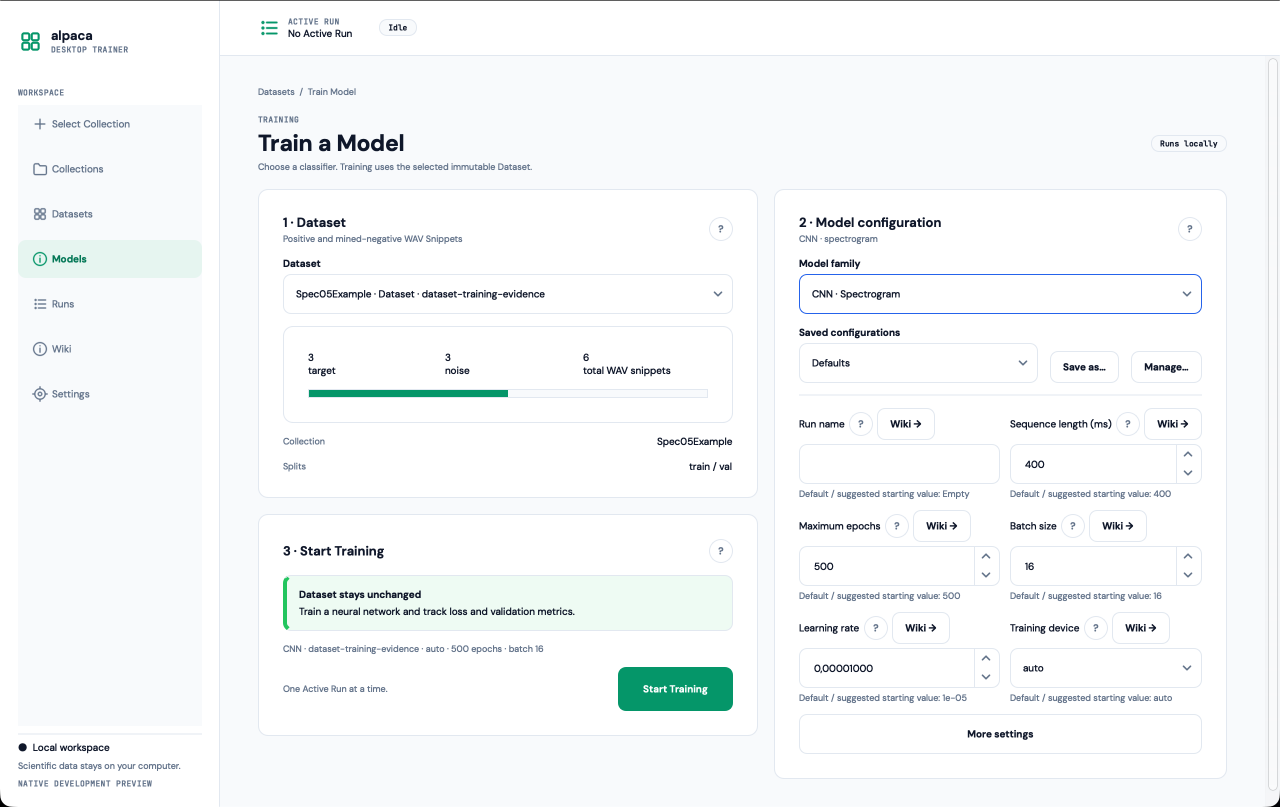
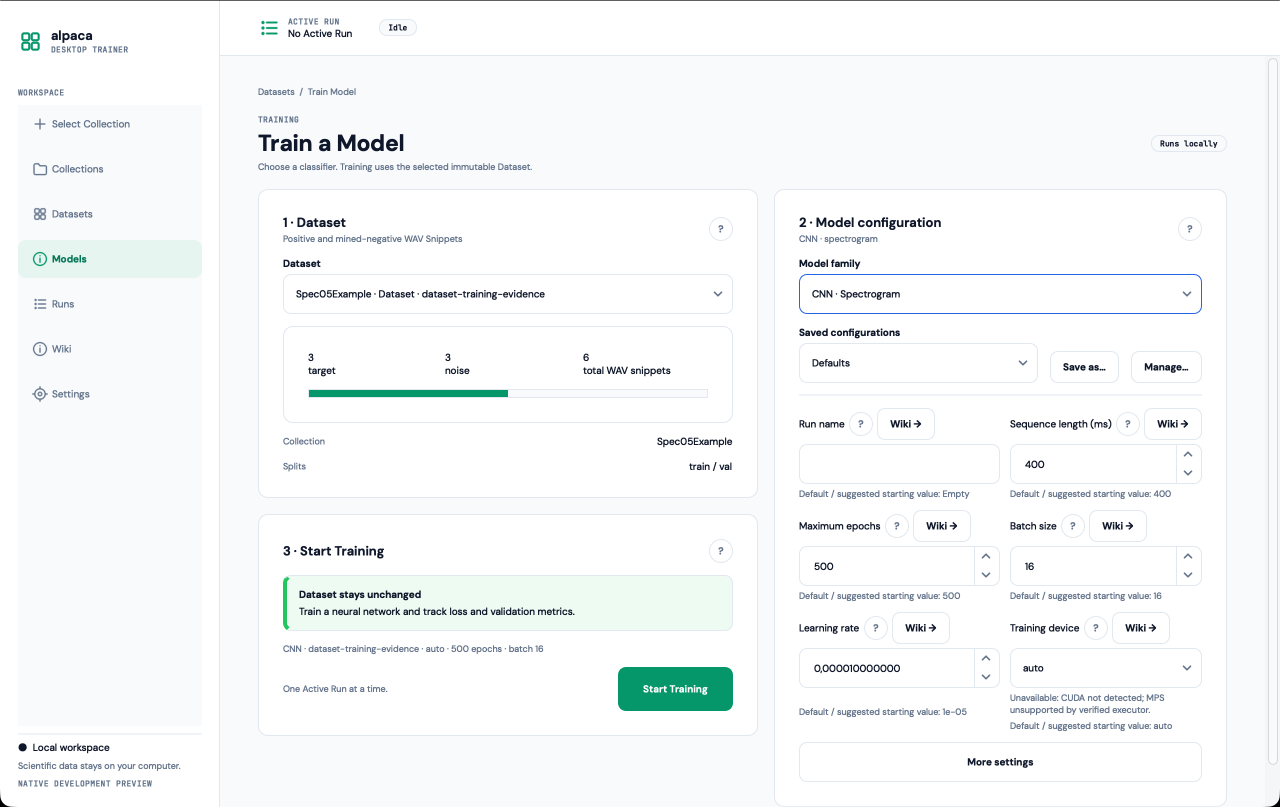
feat(spec05a): close configuration acceptance gaps

Changed region(s): [[0.75, 0.8364, 0.9062, 0.9603], [0.625, 0.8055, 0.75, 0.8984]]

diff --git a/src/alpaca_desktop/gui/training.py b/src/alpaca_desktop/gui/training.py
@@ -84,6 +84,13 @@ def _display_value(value: object) -> str:
     return str(value)
 
 
+_FLOAT_DECIMALS = {
+    "training.learning_rate": 12,
+    "training.lr_decay_factor": 12,
+    "feature_config.min_duration_s": 9,
+}
+
+
 class TrainingWikiPage(QScrollArea):
     def __init__(self, back: Callable[[], None]):
         super().__init__()
@@ -694,7 +701,7 @@ class TrainingPage(QScrollArea):
                 kind="decimal",
                 minimum=-1_000_000_000,
                 maximum=1_000_000_000,
-                decimals=8,
+                decimals=_FLOAT_DECIMALS.get(field.key, 8),
                 step=0.01,
                 value=float(value),
             )
@@ -706,20 +713,19 @@ class TrainingPage(QScrollArea):
                 control.addItem(_display_value(choice), choice)
             selected = control.control.findData(value)
             control.setCurrentIndex(max(0, selected))
-            if field.key == "device":
-                for index in range(control.count()):
-                    choice = control.control.itemData(index)
-                    enabled = not (
-                        (choice == "cuda" and not self.capabilities.cuda)
-                        or (choice == "mps" and not self.capabilities.mps)
-                    )
+            unavailable: list[tuple[object, str]] = []
+            for index in range(control.count()):
+                choice = control.control.itemData(index)
+                reason = self._unavailable_choice_reason(field.key, choice)
+                if reason:
+                    unavailable.append((choice, reason))
                     item = control.model().item(index)
                     if item is not None:
-                        item.setEnabled(enabled)
-            if field.key == "augmentation.noise_source":
-                item = control.model().item(control.control.findData("collection-selected"))
-                if item is not None:
-                    item.setEnabled(False)
+                        item.setEnabled(False)
+                        item.setToolTip(reason)
+            if unavailable:
+                description = self._unavailable_field_description(field.key, unavailable)
+                control.setDescriptionText(description)
             control.currentIndexChanged.connect(
                 lambda _index, key=field.key: self._control_changed(key)
             )
@@ -730,6 +736,29 @@ class TrainingPage(QScrollArea):
             control.toggled.connect(lambda _checked, key=field.key: self._control_changed(key))
             return control
         raise ValueError(f"Unsupported training field kind: {field.kind}")
+
+    def _unavailable_choice_reason(self, key: str, choice: object) -> str:
+        if key == "device" and choice == "cuda" and not self.capabilities.cuda:
+            return "CUDA is unavailable because it was not detected in this runtime."
+        if key == "device" and choice == "mps" and not self.capabilities.mps:
+            return "MPS is unavailable in the verified training executor."
+        if key == "augmentation.noise_source" and choice == "collection-selected":
+            return "Collection-selected noise is unavailable until executor support is verified."
+        return ""
+
+    @staticmethod
+    def _unavailable_field_description(key: str, unavailable: list[tuple[object, str]]) -> str:
+        choices = {choice for choice, _reason in unavailable}
+        if key == "device":
+            parts = []
+            if "cuda" in choices:
+                parts.append("CUDA not detected")
+            if "mps" in choices:
+                parts.append("MPS unsupported by verified executor")
+            return "Unavailable: " + "; ".join(parts) + "."
+        if key == "augmentation.noise_source":
+            return "Unavailable: collection-selected noise lacks verified executor support."
+        return "Unavailable: " + "; ".join(reason for _choice, reason in unavailable)
 
     def _control_value(self, key: str) -> object:
         field = next(field for field in fields_for_family(self.family) if field.key == key)

diff --git a/tests/integration/test_training_ui.py b/tests/integration/test_training_ui.py
@@ -144,6 +144,30 @@ def test_native_validation_preserves_values_blocks_launch_and_resets(
     page.open_detail_section("Spectrogram")
     assert isinstance(page.field_controls["spectrogram.n_fft"], NumberInput)
 
+    page.set_field_value("training.learning_rate", 1e-10)
+    assert page.field_controls["training.learning_rate"].value() == pytest.approx(1e-10)
+    assert page.field_value("training.learning_rate") == pytest.approx(1e-10)
+
+    device = page.field_controls["device"]
+    mps_index = device.control.findData("mps")
+    mps_item = device.model().item(mps_index)
+    assert not mps_item.isEnabled()
+    assert "MPS is unavailable in the verified training executor" in mps_item.toolTip()
+    assert "MPS unsupported by verified executor" in device.control.accessibleDescription()
+    assert "MPS unsupported by verified executor" in device.descriptionText()
+
+    noise_source = page.field_controls["augmentation.noise_source"]
+    collection_noise_index = noise_source.control.findData("collection-selected")
+    collection_noise_item = noise_source.model().item(collection_noise_index)
+    assert not collection_noise_item.isEnabled()
+    assert "Collection-selected noise is unavailable" in collection_noise_item.toolTip()
+    assert "collection-selected noise lacks verified executor support" in (
+        noise_source.control.accessibleDescription()
+    )
+    assert "collection-selected noise lacks verified executor support" in (
+        noise_source.descriptionText()
+    )
+
     page.set_field_value("spectrogram.n_fft", 1024)
     page.set_field_value("spectrogram.hop_length", 2048)
 

diff --git a/tests/unit/test_training_config.py b/tests/unit/test_training_config.py
@@ -1,6 +1,7 @@
 from __future__ import annotations
 
 import json
+import stat
 
 import pytest
 
@@ -174,3 +175,16 @@ def test_preset_store_rejects_corruption_unknown_schema_names_and_atomic_failure
     store.path.write_text("{not json")
     with pytest.raises(ValueError, match="invalid JSON"):
         store.list()
+
+
+def test_preset_store_tightens_existing_storage_permissions(tmp_path):
+    """Case: UT-TRAIN-010."""
+    directory = tmp_path / "presets"
+    directory.mkdir(mode=0o777)
+    directory.chmod(0o777)
+    store = PresetStore(directory)
+
+    store.create("Baseline", TrainingDraft.defaults("cnn"))
+
+    assert stat.S_IMODE(directory.stat().st_mode) == 0o700
+    assert stat.S_IMODE(store.path.stat().st_mode) == 0o600

diff --git a/src/alpaca_desktop/persistence/training_presets.py b/src/alpaca_desktop/persistence/training_presets.py
@@ -237,6 +237,7 @@ class PresetStore:
         self.directory.mkdir(parents=True, exist_ok=True, mode=0o700)
         if self.directory.is_symlink() or not self.directory.is_dir():
             raise OSError("Preset storage directory is unsafe.")
+        self.directory.chmod(0o700)
         payload = {
             "schema_version": PRESET_STORE_SCHEMA_VERSION,
             "catalog_revision": CATALOG_REVISION,

diff --git a/docs/design/evidence/README.md b/docs/design/evidence/README.md
@@ -256,9 +256,10 @@ WAVs. No training Worker ran, no metric was invented and no Model was published.
   `alp-ui` 0.1.0a0 at `330aaab96a6b32dd2d83ae84a52a2a238446d264`.
 - Cocoa primary screen: 1470×956 logical pixels, device pixel ratio 2.0, logical DPI 72; normal
   app capture 1280×807 and compact capture 700×780. PNGs preserve native compositor output.
-- Scientific defaults were checked against `bioacoustics-dl-toolbox`
-  `0fce0d4fa3d0931c5731e8b868f705e0a2120835` and `alpaca-pipelines`
-  `91af5287dc18313f88902dc9696e8756274736b3`.
+- Scientific defaults were rechecked against the current `bioacoustics-dl-toolbox`
+  `8e2e0528d4ce718005e194d426cde6e62fda0909` and `alpaca-pipelines`
+  `91af5287dc18313f88902dc9696e8756274736b3`. The applicable toolbox configuration defaults are
+  unchanged from the Trainer's pinned `0fce0d4fa3d0931c5731e8b868f705e0a2120835` revision.
 - The unchanged prototype was reviewed source-first at `openTraining`, `trainPage`, `setTrain` and
   `startTraining`, the relevant CSS and `rf-config-preview.png`. No controllable browser session was
   connected, so no live-browser interaction evidence is claimed. The actual current sibling
@@ -273,7 +274,7 @@ focus, scroll and resize; **S** scientific/disabled/error/completed-state fideli
 
 | State | Prototype / extension target | Native evidence | Showcase and interaction evidence | Six dimensions | Difference / disposition |
 |---|---|---|---|---|---|
-| Collapsed CNN | [Interactive Training route](../prototypes/training-first/index.html#train) | [train-cnn.png](spec-05-native/train-cnn.png) | Public `SelectInput`, `NumberInput`, `HelpHint`, `Card`, `Alert`, primary `Button`; `IT-TRAIN-010/011` | H **MATCH** · N **MATCH** · C **MATCH** · A **MATCH** · I **MATCH** · S **MATCH** | Dataset left, compact configuration right and Start Training left-bottom match the prototype hierarchy. The primary roster adds Run name and sequence length per the native extension. |
+| Collapsed CNN | [Interactive Training route](../prototypes/training-first/index.html#train) | [train-cnn.png](spec-05-native/train-cnn.png) | Public `SelectInput`, `NumberInput`, `HelpHint`, `Card`, `Alert`, primary `Button`; `IT-TRAIN-010/011` | H **MATCH** · N **MATCH** · C **MATCH** · A **MATCH** · I **MATCH** · S **MATCH** | Dataset left, compact configuration right and Start Training left-bottom match the prototype hierarchy. The primary roster adds Run name and sequence length per the native extension; unavailable CUDA/MPS choices now carry concise visible reasons and full option tooltips without displacing More settings. |
 | Collapsed RF | [RF target](../prototypes/training-first/rf-config-preview.png) | [train-rf.png](spec-05-native/train-rf.png) | Family switch preserves the CNN draft; nullable depth displays Unlimited semantics; `IT-TRAIN-010` | H **MATCH** · N **MATCH** · C **MATCH** · A **MATCH** · I **MATCH** · S **MATCH** | Prototype threshold moves into More settings as explicitly required; fixed feature family remains visible as derived in details instead of a fake editable basic. |
 | Detailed CNN | [Native extension](../SPEC05_CONFIGURATION_EXTENSION.md) | [train-cnn-advanced.png](spec-05-native/train-cnn-advanced.png) | Scrolled Spectrogram group shows current 2048, backend default/suggestion 4096, modified badge, reset and Wiki/help; `UT-TRAIN-007/008`, `IT-TRAIN-010/011` | H **MATCH** · N **MATCH** · C **MATCH** · A **MATCH** · I **MATCH** · S **MATCH** | The capture intentionally scrolls the in-page detail content; the paired collapsed capture records the baseline header and CTA. Only one subgroup is open. |
 | Detailed RF | [Native extension](../SPEC05_CONFIGURATION_EXTENSION.md) | [train-rf-advanced.png](spec-05-native/train-rf-advanced.png) | Forest group shows decision policy separately from fitting fields and a non-default seed with reset; typed numeric/null feature modes are retained; `UT-TRAIN-008` | H **MATCH** · N **MATCH** · C **MATCH** · A **MATCH** · I **MATCH** · S **MATCH** | RF threshold is explicitly described as validation/recorded policy, not an estimator fit parameter or future inference control. |
@@ -289,8 +290,8 @@ asserts real atomic files and CRUD/restart persistence in an isolated user direc
 Start action only freezes the future Worker input and shows “No training Run was started”; deferred
 `IT-TRAIN-012/014` remain open until 05c can observe both real executors and immutable Models.
 
-Verified on the capture platform with `4 passed` for the owned unit module, `3 passed` for the
-owned integration module and `73 passed` for the full suite. Ruff check/format, the indexed-ID,
+Verified on the capture platform with `5 passed` for the owned unit module, `3 passed` for the
+owned integration module and `74 passed` for the full suite. Ruff check/format, the indexed-ID,
 fixture, native-handoff and Git LFS audits passed. `capture_spec05_screenshots.py` produced the nine
 reviewed Cocoa PNGs, and a no-dependency wheel build contained the packaged 67-field JSON catalog.
 

diff --git a/docs/specs/05a-training-configuration-and-presets.md b/docs/specs/05a-training-configuration-and-presets.md
@@ -31,15 +31,22 @@ Only the indexed primary roster appears initially; one keyboard-operable More se
 contains the six CNN or three RF groups. Every catalog field has an observable typed value,
 `alp-ui.HelpHint`, specific Training Wiki anchor and explicit default/suggestion provenance;
 derived binary/classifier and RF feature fields are read-only. Family switching, collapsing,
-validation and preset roundtrips preserve drafts. A valid Start Training action freezes the 05b/05c
-handoff and truthfully states that no Run was started in this configuration-only phase.
+validation and preset roundtrips preserve drafts. Valid low-magnitude learning rates retain their
+typed value in the native decimal control, and disabled accelerator/noise-source choices explain
+their capability gate visibly, accessibly and in option tooltips. A valid Start Training action
+freezes the 05b/05c handoff and truthfully states that no Run was started in this
+configuration-only phase.
 
-TDD began with collection failures for missing `domain.training` and `gui.training` modules.
-`UT-TRAIN-007`–`010` and `IT-TRAIN-010/011/013` now pass. `IT-TRAIN-012/014`, genuine fitting,
-measured metrics and Model publication remain deferred exactly as specified. The scientific review
-used `bioacoustics-dl-toolbox` `0fce0d4fa3d0931c5731e8b868f705e0a2120835` and
-`alpaca-pipelines` `91af5287dc18313f88902dc9696e8756274736b3`; the native component review
-used `alp-ui` `330aaab96a6b32dd2d83ae84a52a2a238446d264`.
+TDD began with collection failures for missing `domain.training` and `gui.training` modules. The
+final acceptance audit added red cases for sub-`1e-8` learning-rate fidelity, disabled-choice
+reasons and restrictive permissions on a pre-existing preset directory before implementing those
+fixes. `UT-TRAIN-007`–`010` and `IT-TRAIN-010/011/013` now pass. `IT-TRAIN-012/014`, genuine
+fitting, measured metrics and Model publication remain deferred exactly as specified. The
+scientific review was repeated against the current `bioacoustics-dl-toolbox`
+`8e2e0528d4ce718005e194d426cde6e62fda0909`; the relevant configuration defaults are unchanged
+from the pinned `0fce0d4fa3d0931c5731e8b868f705e0a2120835` revision. `alpaca-pipelines` remained
+`91af5287dc18313f88902dc9696e8756274736b3`, and the native component review used `alp-ui`
+`330aaab96a6b32dd2d83ae84a52a2a238446d264`.
 
 Native macOS 26.6.2 arm64 captures and the six-dimension review are recorded in the
 [evidence ledger](../design/evidence/README.md). Browser automation was unavailable in the session;
@@ -51,10 +58,10 @@ Verified commands:
 
 ```text
 .venv/bin/python -m pytest -q tests/unit/test_training_config.py
-                                                            4 passed
+                                                            5 passed
 .venv/bin/python -m pytest -q tests/integration/test_training_ui.py
                                                             3 passed
-.venv/bin/python -m pytest -q                              73 passed
+.venv/bin/python -m pytest -q                              74 passed
 .venv/bin/python -m ruff check src tests scripts           passed
 .venv/bin/python -m ruff format --check src tests scripts  53 files formatted
 .venv/bin/python scripts/audit_test_ids.py                 49 IDs, 0 unknown
